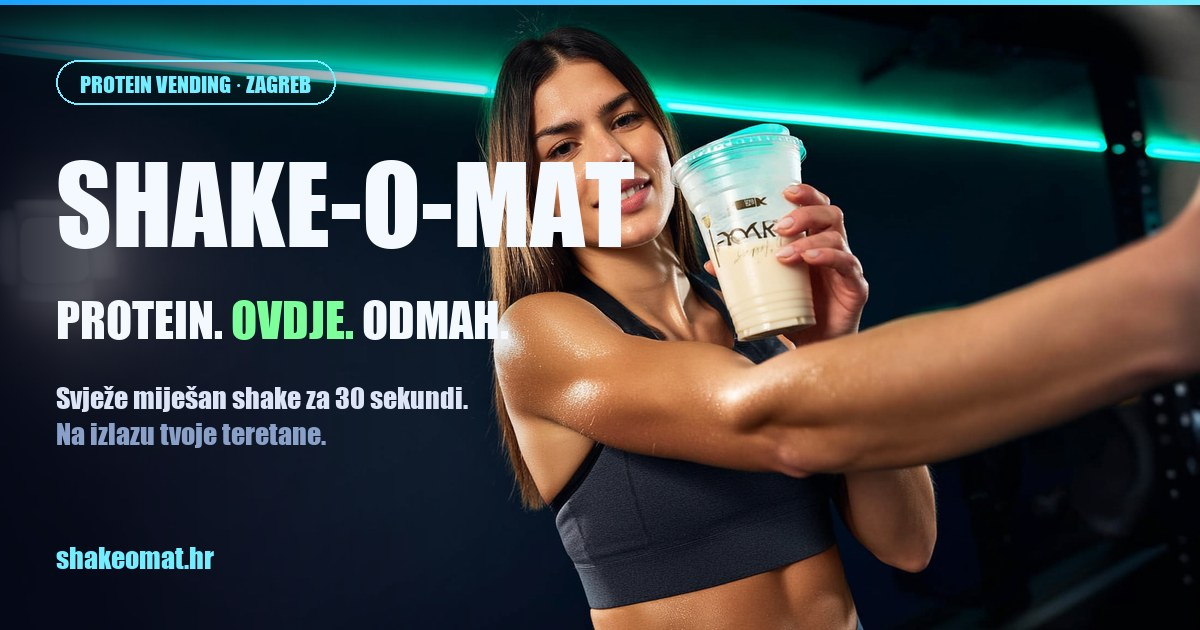
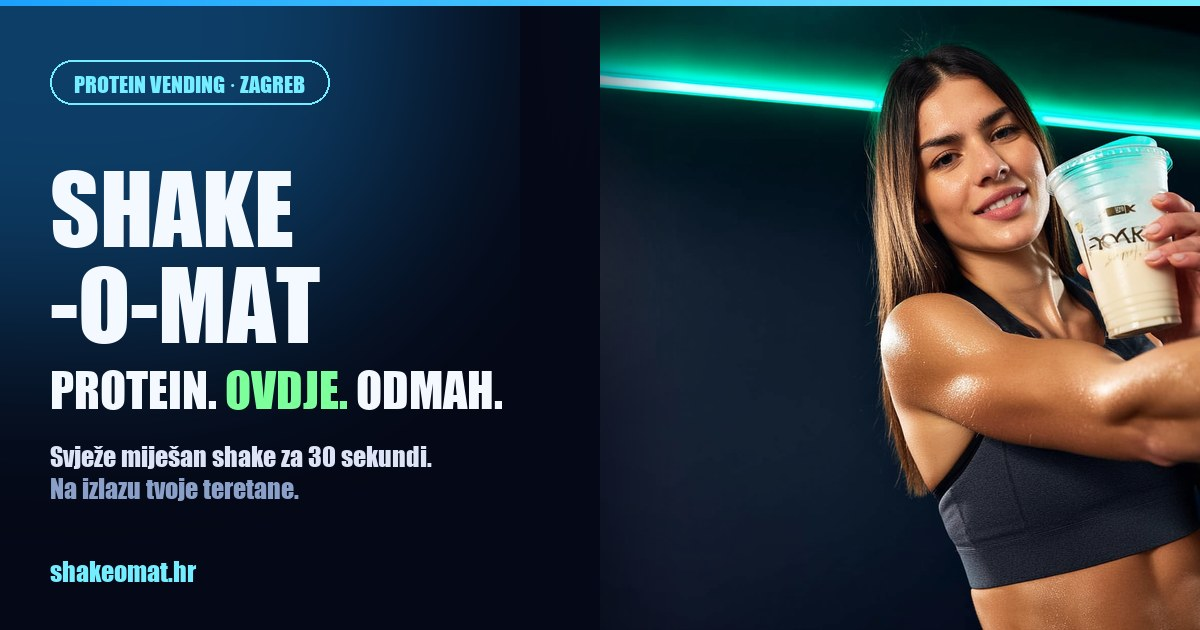
fix(shakeomat): readable og-image + clean machine shots + 2-cup MOQ alignment
og-image.jpg:
- Split design: solid dark navy left panel (text on guaranteed dark bg) + photo right
- All copy now 100% legible (was: text overlayed face area, contrast fail)

Machine showcase:
- DROP machine-real.jpg (booth photo had cluttered "JK91 GRAND DEBUT" trade-show backdrop + power cables = unprofessional)
- ADD machine-detail.jpg — Higgsfield studio close-up of touchscreen + cyan LED, Apple-tier product photography
- KEEP machine-product.jpg — clean machine in gym setting
- 2 clean Higgsfield renders > 1 booth photo

Cup gallery:
- Reduced from 10 to 2 variants (MOQ constraint)
- Kept #5 RECOVER orange ("Tijelo pamti svaki trening") + #10 BRAND white ("Zaslužio/la si. Zna se.")
- Updated copy: "10 različitih poruka" → "Dvije poruke. Svaki shake je odluka."
- Removed cup_01-04, 06-09 + cup-hero from deploy (saves ~270 KB + 8 HTTP req)
- Removed lifestyle-female/genz (unused on site)

diff --git a/index.html b/index.html
@@ -924,30 +924,44 @@
     line-height: 1.5;
   }
 
-  /* ============ CUP GALLERY ============ */
-  .cup-gallery {
+  /* ============ CUP GALLERY (2 variants) ============ */
+  .cup-gallery-2 {
     display: grid;
-    grid-template-columns: repeat(2, 1fr);
-    gap: 10px;
+    grid-template-columns: 1fr;
+    gap: 20px;
   }
-  @media (min-width: 760px) {
-    .cup-gallery { grid-template-columns: repeat(3, 1fr); gap: 12px; }
+  @media (min-width: 540px) {
+    .cup-gallery-2 { grid-template-columns: 1fr 1fr; gap: 20px; }
   }
-  @media (min-width: 1100px) {
-    .cup-gallery { grid-template-columns: repeat(5, 1fr); gap: 10px; }
+  .cup-gallery-2 figure {
+    margin: 0;
+    background: var(--bg-surface);
+    border: 1px solid rgba(115, 237, 255, 0.15);
+    border-radius: 16px;
+    overflow: hidden;
+    transition: transform 0.2s ease, border-color 0.2s ease;
   }
-  .cup-gallery img {
+  .cup-gallery-2 figure:hover {
+    transform: translateY(-4px);
+    border-color: rgba(125, 255, 155, 0.4);
+  }
+  .cup-gallery-2 img {
     width: 100%;
     height: auto;
     aspect-ratio: 1 / 1;
     object-fit: cover;
-    border-radius: 12px;
-    border: 1px solid rgba(115, 237, 255, 0.1);
-    transition: transform 0.2s ease, border-color 0.2s ease;
+    display: block;
   }
-  .cup-gallery img:hover {
-    transform: scale(1.04);
-    border-color: rgba(125, 255, 155, 0.4);
+  .cup-gallery-2 figcaption {
+    padding: 12px 16px;
+    font-family: 'Barlow Condensed', sans-serif;
+    font-weight: 900;
+    font-size: 0.95rem;
+    color: var(--white);
+    text-transform: uppercase;
+    letter-spacing: 0.04em;
+    text-align: center;
+    border-top: 1px solid rgba(115, 237, 255, 0.08);
   }
 
   /* ============ WAITLIST ============ */
@@ -1346,12 +1360,12 @@
 
     <div class="machine-grid">
       <figure class="machine-card">
-        <img src="machine-real.jpg" alt="JK91 — pravi protein vending aparat, već testiran na sajmu" loading="lazy" width="624" height="1600">
-        <figcaption>JK91 — pravi aparat, već testiran u Kini.<br><span>9 spremnika · auto cup · auto lid · independent blending · high-pressure heat clean</span></figcaption>
+        <img src="machine-detail.jpg" alt="Shake-o-mat aparat — detalj touchscreena i cyan LED accenta" loading="lazy" width="1000" height="666">
+        <figcaption>Touchscreen + auto-dispenser.<br><span>9 spremnika · auto cup · auto lid · independent blending · high-pressure heat clean</span></figcaption>
       </figure>
       <figure class="machine-card">
         <img src="machine-product.jpg" alt="Shake-o-mat aparat u premium teretani" loading="lazy" width="1000" height="666">
-        <figcaption>Stiže u Zagreb · lipanj 2026.<br><span>Cyan LED accent · touchscreen ekran · ugradnja bez investicije teretane</span></figcaption>
+        <figcaption>Stiže u Zagreb · lipanj 2026.<br><span>Cyan LED accent · ugradnja bez investicije teretane · 60×80 cm tlocrt, 190 cm visina</span></figcaption>
       </figure>
     </div>
   </div>
@@ -1407,11 +1421,11 @@
 
     <div class="custom-grid">
       <div class="custom-text">
-        <h2 class="custom-heading" id="cup-heading">10 različitih poruka. Uvijek iznenađenje.</h2>
-        <p class="custom-body">Svaka čaša nosi drugu motivacijsku poruku &mdash; nikad ne znaš koju ćeš dobiti. To je mali razlog više da se vratiš.</p>
+        <h2 class="custom-heading" id="cup-heading">Dvije poruke. Svaki shake je odluka.</h2>
+        <p class="custom-body">Za prvi val biramo dvije čaše &mdash; jedna za <strong>oporavak</strong>, jedna za <strong>identitet</strong>. Više verzija stiže s rastom.</p>
         <ul class="custom-list">
-          <li>10 rotacijskih poruka na čašama</li>
-          <li>Svaka ciljana na različiti emocionalni okidač</li>
+          <li>RECOVER — &laquo;Tijelo pamti svaki trening. I svaki oporavak.&raquo;</li>
+          <li>BRAND — &laquo;Zaslužio/la si. Zna se.&raquo;</li>
           <li>Shake-o-mat brand na svakom koraku</li>
           <li>Svježe miješano — nije s police, nije od jučer</li>
           <li>Spreman za 30 sekundi, na izlazu tvoje teretane</li>
@@ -1420,17 +1434,15 @@
       </div>
 
       <div class="custom-visual">
-        <div class="cup-gallery" aria-label="10 motivacijskih čaša">
-          <img src="cup_01.jpg" alt="RECOVER — Upravo si dao sve. Sad daj tijelu što treba." loading="lazy">
-          <img src="cup_02.jpg" alt="BUILD — Svaki gram se zbraja. Svaki rep. Svaki shake." loading="lazy">
-          <img src="cup_03.jpg" alt="LEAN — Definicija nije sport. Odluka je." loading="lazy">
-          <img src="cup_04.jpg" alt="BUILD — Mišić se gradi 24 sata. Ti si počeo sat 1." loading="lazy">
-          <img src="cup_05.jpg" alt="RECOVER — Tijelo pamti svaki trening. I svaki oporavak." loading="lazy">
-          <img src="cup_06.jpg" alt="BRAND — 30 sekundi. Toliko treba tvom tijelu da te čuje." loading="lazy">
-          <img src="cup_07.jpg" alt="BOOST — Aminokiseline koje mišić traži upravo sada." loading="lazy">
-          <img src="cup_08.jpg" alt="BRAND — Sad je sljedeći put." loading="lazy">
-          <img src="cup_09.jpg" alt="BRAND — Svježe miješano. Kao i ti — svaki dan iznova." loading="lazy">
-          <img src="cup_10.jpg" alt="BRAND — Zaslužio/la si. Zna se." loading="lazy">
+        <div class="cup-gallery cup-gallery-2" aria-label="2 verzije čaše za prvi val">
+          <figure>
+            <img src="cup_05.jpg" alt="RECOVER — Tijelo pamti svaki trening. I svaki oporavak." loading="lazy">
+            <figcaption>RECOVER &middot; nakon teškog treninga</figcaption>
+          </figure>
+          <figure>
+            <img src="cup_10.jpg" alt="BRAND — Zaslužio/la si. Zna se." loading="lazy">
+            <figcaption>BRAND &middot; svaki dan, svaki cilj</figcaption>
+          </figure>
         </div>
       </div>
     </div>
